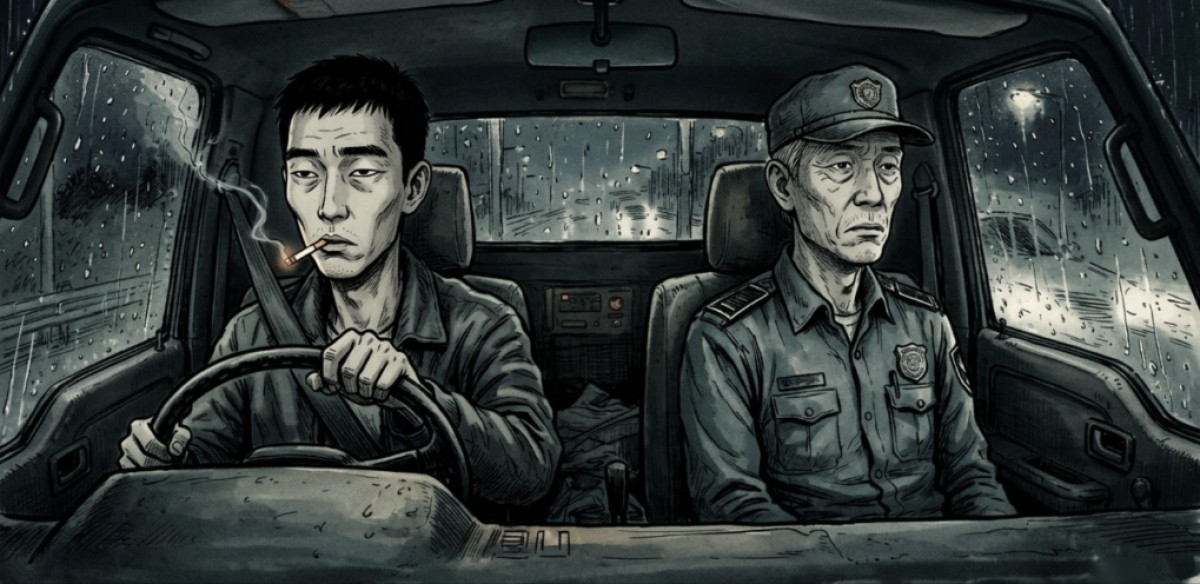
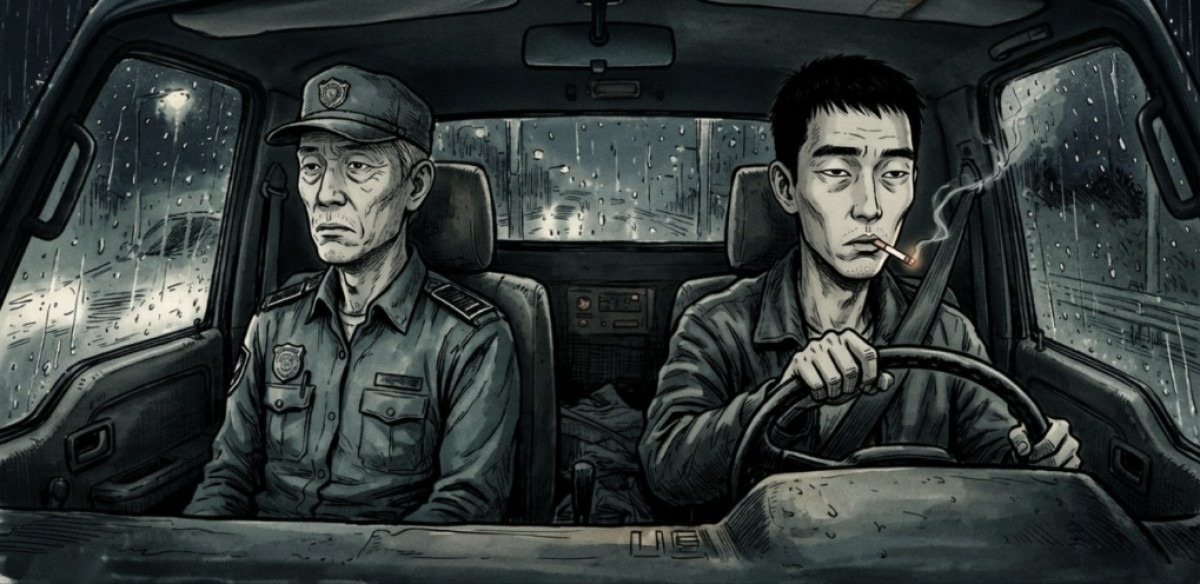
webtoon ep04: driver on left side (Korea LHD) - mirror k04n/k25b, move bubble
Claude-Session: https://claude.ai/code/session_018twa3QMQYz3PY4RAJxVLUb

diff --git a/ep04/index.html b/ep04/index.html
@@ -277,7 +277,7 @@ html.mo .snd{animation:mo-fade 1s ease-out 1.2s backwards}
   <div class="p"><img src="k02.jpg" alt="난로 앞 웃는 가족 광고판"><div class="cap" style="left:3%;top:4%">골디락스 에너지 — 이번 겨울도 따뜻하게</div></div>
   <div class="rec">정근은 사살 명단에서 빠졌다.<br>서윤이 매일 그를 찾았기 때문이다.</div>
   <div class="p tight"><img src="k03.jpg" alt="빗속 화물 트럭 행렬"><div class="cap" style="left:3%;top:5%">대신, 시신을 실어<br>나르는 트럭에 배치됐다.</div></div>
-  <div class="p"><img src="k04n.jpg" alt="트럭 조수석의 정근과 담배 피우는 마른 운전사"><div class="bub br" style="left:4.6%;top:60%">형님, 뒤는 보지 마요.<br>그게 편해요.</div></div>
+  <div class="p"><img src="k04n.jpg" alt="트럭 조수석의 정근과 담배 피우는 마른 운전사"><div class="bub bl" style="left:56%;top:6%">형님, 뒤는 보지 마요.<br>그게 편해요.</div></div>
   <div class="p"><img src="k04a.jpg" alt="운전사가 내민 담배를 손사래 치는 정근">
     <div class="bub sm bl" style="left:3%;top:4%">여기 일당 세요.<br>다들 그래서 와요.</div>
     <div class="bub sm br" style="left:58%;top:5%">…아들 약값이야.</div></div>
